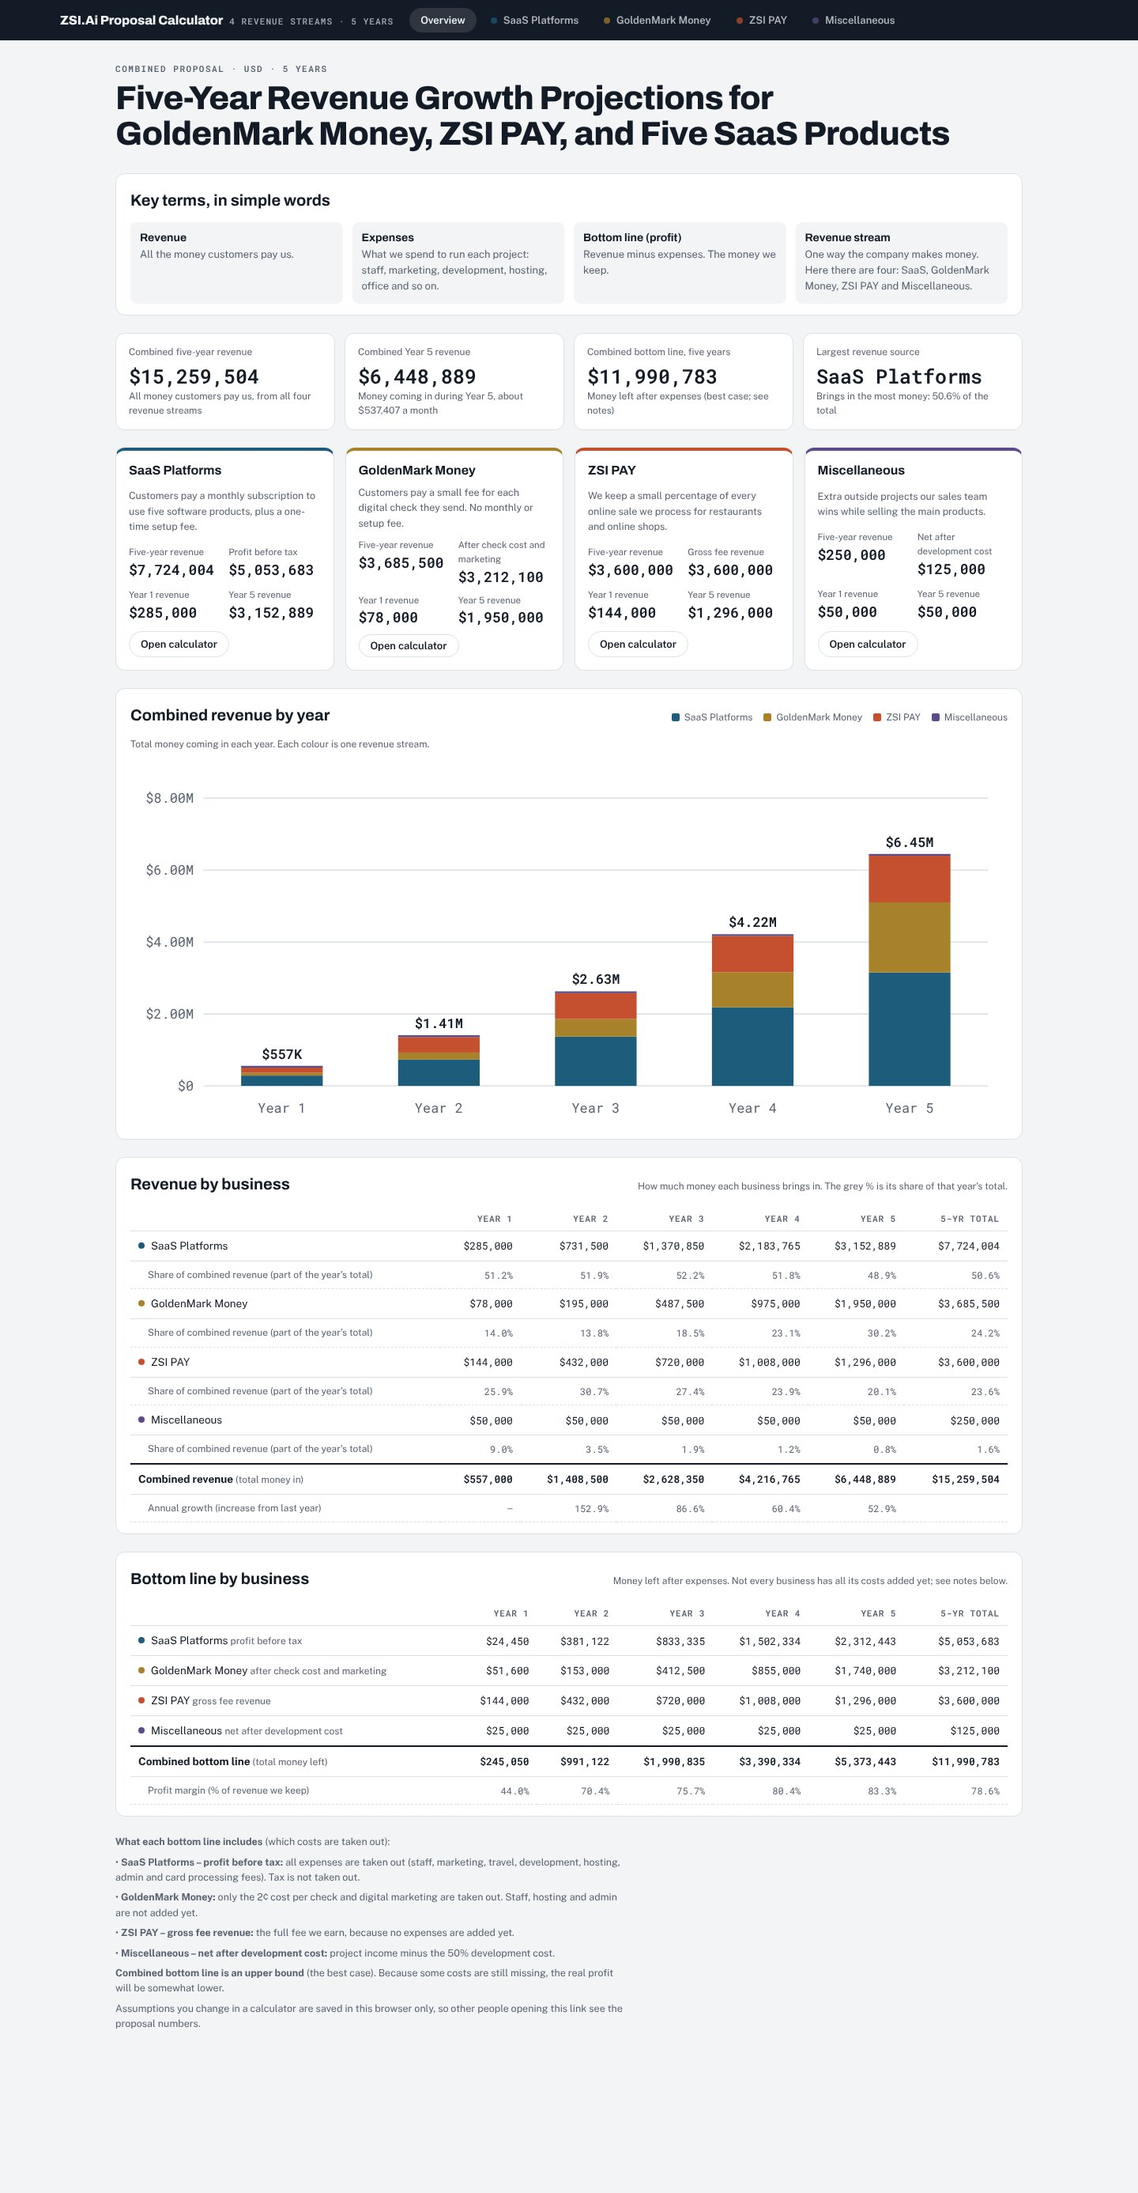
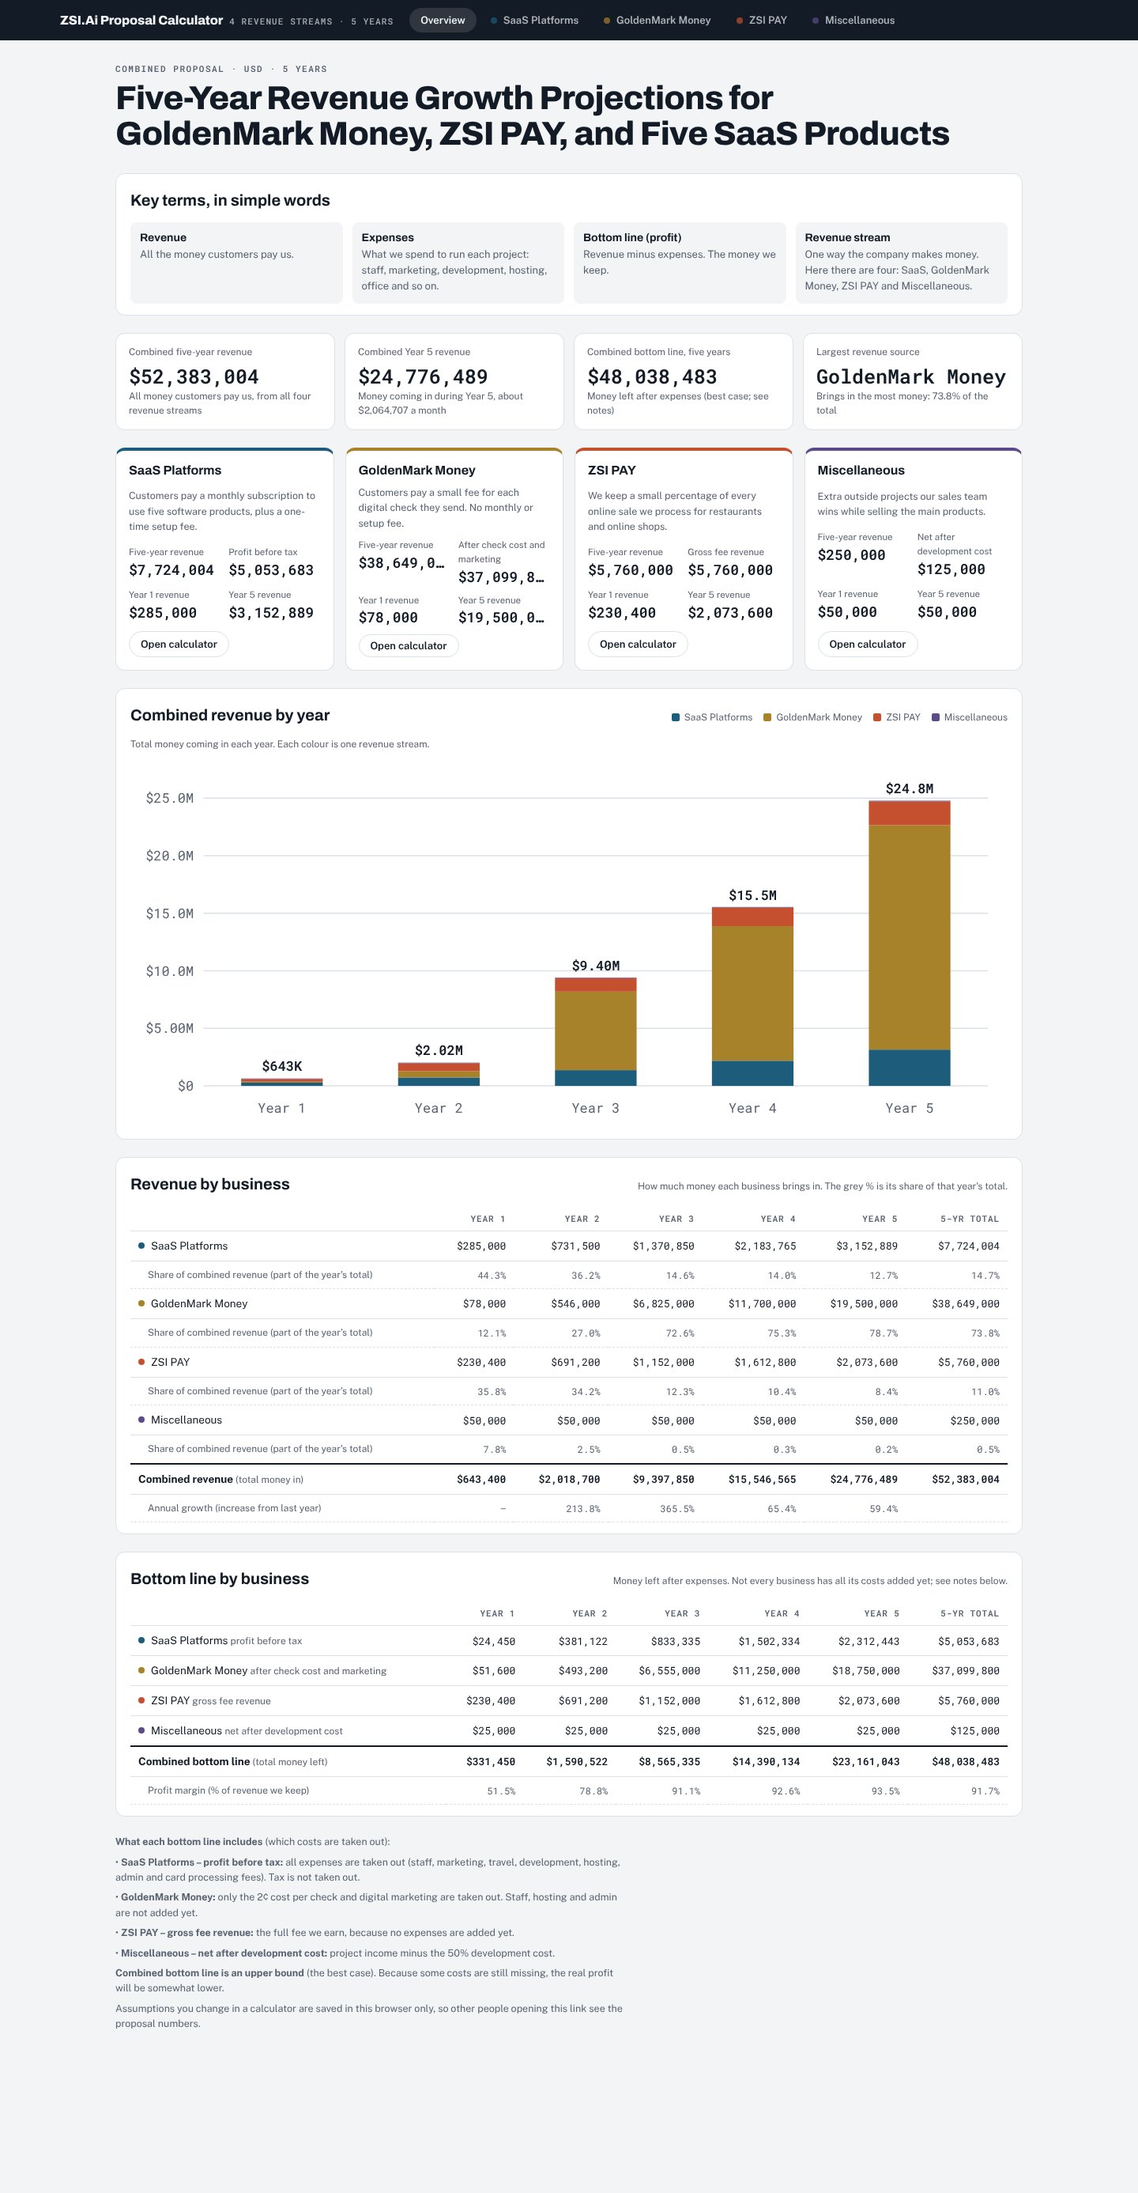
ZSI investor video: update to the revised calculator (GoldenMark Money customers 100-20,000; ZSI PAY fee 0.8%)
Claude-Session: https://claude.ai/code/session_01KPBsdzhy6yaFbGMrWeQjjn

diff --git a/channel/stories/z01/story.html b/channel/stories/z01/story.html
@@ -134,9 +134,9 @@ SCN.zsipay=(t,s,L)=>{
   if(p>0){ const x=lerp(470,1240,eio(p)), y=lerp(735,520,eio(p));
     el(`<div class="abs" style="left:${x}px;top:${y}px;padding:14px 26px;border-radius:12px;background:#2F7D4F;font-weight:900;font-size:40px;box-shadow:0 12px 30px #0008">$1,000</div>`);}
   if(sp>0){
-    el(`<div class="abs" style="left:1300px;top:${lerp(520,330,eio(sp))}px;padding:12px 24px;border-radius:12px;background:#2F7D4F;font-weight:900;font-size:38px;opacity:${sp}">$995 <span style="font-size:24px;font-weight:700">to the merchant</span></div>`);
-    el(`<div class="abs" style="left:${lerp(1300,1560,eio(sp))}px;top:${lerp(560,700,eio(sp))}px;width:110px;height:110px;border-radius:55px;background:radial-gradient(circle at 35% 30%,#FFF4B8,#E2BE62 50%,#B8860B);box-shadow:0 10px 30px #0008;display:flex;align-items:center;justify-content:center;font-weight:900;font-size:40px;color:#5a3a00;opacity:${sp}">$5</div>`);
-    el(`<div class="abs lbl" style="left:1500px;top:850px;width:300px;text-align:center;font-size:30px;opacity:${sp}">we keep <span class="big" style="font-size:44px">0.5%</span></div>`);}
+    el(`<div class="abs" style="left:1300px;top:${lerp(520,330,eio(sp))}px;padding:12px 24px;border-radius:12px;background:#2F7D4F;font-weight:900;font-size:38px;opacity:${sp}">$992 <span style="font-size:24px;font-weight:700">to the merchant</span></div>`);
+    el(`<div class="abs" style="left:${lerp(1300,1560,eio(sp))}px;top:${lerp(560,700,eio(sp))}px;width:110px;height:110px;border-radius:55px;background:radial-gradient(circle at 35% 30%,#FFF4B8,#E2BE62 50%,#B8860B);box-shadow:0 10px 30px #0008;display:flex;align-items:center;justify-content:center;font-weight:900;font-size:40px;color:#5a3a00;opacity:${sp}">$8</div>`);
+    el(`<div class="abs lbl" style="left:1500px;top:850px;width:300px;text-align:center;font-size:30px;opacity:${sp}">we keep <span class="big" style="font-size:44px">0.8%</span></div>`);}
 };
 SCN.terms=(t,s,L)=>{
   chap(t,'How it makes money');
@@ -188,10 +188,10 @@ SCN.gmm_model=(t,s,L)=>{
 SCN.gmm_num=(t,s,L)=>{
   chap(t,'Stream 2 · GoldenMark Money');
   el(browser({img:'calc_goldenmark',url:'proposal calculator · GoldenMark Money',x:90,y:150,w:1000,vh:740,sy:lerp(600,760,eio(seg(t,0,4))),op:fade(t,0)}));
-  el(`<div class="abs" style="left:1170px;top:180px;opacity:${fade(t,L[0])}"><div class="lbl" style="font-size:30px">Business customers</div><div class="big" style="font-size:72px">${Math.round(lerp(100,2000,eout(seg(t,L[0]+.5,L[0]+3)))).toLocaleString()}</div></div>`);
-  el(`<div class="abs" style="left:1170px;top:350px;opacity:${fade(t,L[0]+2.5)}"><div class="lbl" style="font-size:30px">Revenue per year</div><div class="big" style="font-size:66px">$78,000 → ${money(countUp(t,L[0]+3,1.5,1950000))}</div></div>`);
-  el(`<div class="abs" style="left:1170px;top:540px;opacity:${fade(t,L[1])}"><div class="lbl" style="font-size:30px">5-year revenue</div><div class="big" style="font-size:72px">${money(countUp(t,L[1],1.4,3685500))}</div></div>`);
-  el(`<div class="abs" style="left:1170px;top:720px;opacity:${fade(t,L[1]+2.4)}"><div class="lbl" style="font-size:30px">Left after check costs & marketing</div><div class="big" style="font-size:72px;color:#F5D98A">${money(countUp(t,L[1]+2.4,1.4,3212100))}</div></div>`);
+  el(`<div class="abs" style="left:1170px;top:180px;opacity:${fade(t,L[0])}"><div class="lbl" style="font-size:30px">Business customers</div><div class="big" style="font-size:72px">${Math.round(lerp(100,20000,eout(seg(t,L[0]+.5,L[0]+3)))).toLocaleString()}</div></div>`);
+  el(`<div class="abs" style="left:1170px;top:350px;opacity:${fade(t,L[0]+2.5)}"><div class="lbl" style="font-size:30px">Revenue per year</div><div class="big" style="font-size:66px">$78K → ${short(countUp(t,L[0]+3,1.5,19500000))}</div></div>`);
+  el(`<div class="abs" style="left:1170px;top:540px;opacity:${fade(t,L[1])}"><div class="lbl" style="font-size:30px">5-year revenue</div><div class="big" style="font-size:72px">${money(countUp(t,L[1],1.4,38649000))}</div></div>`);
+  el(`<div class="abs" style="left:1170px;top:720px;opacity:${fade(t,L[1]+2.4)}"><div class="lbl" style="font-size:30px">Left after check costs & marketing</div><div class="big" style="font-size:72px;color:#F5D98A">${money(countUp(t,L[1]+2.4,1.4,37099800))}</div></div>`);
 };
 SCN.pay_num=(t,s,L)=>{
   chap(t,'Stream 3 · ZSI PAY');
@@ -203,10 +203,10 @@ SCN.pay_num=(t,s,L)=>{
   el(`<div class="abs" style="left:130px;top:660px;opacity:${fade(t,L[1])}"><span class="big" style="font-size:80px">${Math.round(lerp(0,900,eout(seg(t,L[1],L[1]+1.5))))}</span><span class="lbl" style="font-size:34px"> merchants by Year 5</span></div>`);
   el(`<div class="abs" style="left:130px;top:800px;opacity:${fade(t,L[1]+2.5)}"><span class="big" style="font-size:72px;color:#F08A6A">${money(countUp(t,L[1]+2.5,1.6,720000000))}</span><span class="lbl" style="font-size:30px"> in sales processed (5 yrs)</span></div>`);
   // revenue bars
-  const R=[144000,432000,720000,1008000,1296000];
-  if(t>L[2]-.4){ R.forEach((v,i)=>{const q=eout(seg(t,L[2]+i*.35,L[2]+i*.35+.6)); const h=v/1296000*420;
+  const R=[230400,691200,1152000,1612800,2073600];
+  if(t>L[2]-.4){ R.forEach((v,i)=>{const q=eout(seg(t,L[2]+i*.35,L[2]+i*.35+.6)); const h=v/2073600*420;
       el(`<div class="abs" style="left:${1150+i*140}px;top:${760-h*q}px;width:100px;height:${h*q}px;border-radius:10px 10px 0 0;background:#C4502F"></div><div class="abs" style="left:${1130+i*140}px;top:${715-h*q}px;width:140px;text-align:center;font-weight:900;font-size:28px;opacity:${q}">${short(v)}</div><div class="abs lbl" style="left:${1130+i*140}px;top:775px;width:140px;text-align:center;font-size:24px">Year ${i+1}</div>`);});
-    el(`<div class="abs" style="left:1150px;top:850px;opacity:${fade(t,L[2]+2.2)}"><span class="lbl" style="font-size:30px">5-year fee revenue </span><span class="big" style="font-size:56px">${money(countUp(t,L[2]+2.2,1.3,3600000))}</span></div>`);}
+    el(`<div class="abs" style="left:1150px;top:850px;opacity:${fade(t,L[2]+2.2)}"><span class="lbl" style="font-size:30px">5-year fee revenue </span><span class="big" style="font-size:56px">${money(countUp(t,L[2]+2.2,1.3,5760000))}</span></div>`);}
 };
 SCN.misc=(t,s,L)=>{
   chap(t,'Stream 4 · Miscellaneous');
@@ -219,29 +219,29 @@ SCN.misc=(t,s,L)=>{
 };
 SCN.combined=(t,s,L)=>{
   chap(t,'All four together');
-  const Y=[[285000,78000,144000,50000],[731500,195000,432000,50000],[1370850,487500,720000,50000],[2183765,975000,1008000,50000],[3152889,1950000,1296000,50000]];
+  const Y=[[285000,78000,230400,50000],[731500,546000,691200,50000],[1370850,6825000,1152000,50000],[2183765,11700000,1612800,50000],[3152889,19500000,2073600,50000]];
   const C=['#1D5C7A','#A8822A','#C4502F','#5B4B8A'], NM=['SaaS Platforms','GoldenMark Money','ZSI PAY','Miscellaneous'];
-  const scale=600/6500000;
+  const scale=600/25500000;
   el(`<div class="abs title" style="left:150px;top:110px;font-size:56px;opacity:${fade(t,0)}">Combined revenue by year</div>`);
   el(`<div class="abs" style="left:150px;top:190px;display:flex;gap:30px;font-weight:700;font-size:26px;opacity:${fade(t,.3)}">${NM.map((n,i)=>`<span><i style="display:inline-block;width:22px;height:22px;border-radius:5px;margin-right:9px;vertical-align:-3px;background:${C[i]}"></i>${n}</span>`).join('')}</div>`);
   for(let y=0;y<5;y++){ const a=L[1]-.2+y*.9, g=eout(seg(t,a,a+.9)); const x=220+y*230;
     let h='';for(let q=3;q>=0;q--) h+=`<div style="height:${Y[y][q]*scale*g}px;background:${C[q]};${q==3?'border-radius:8px 8px 0 0':''}"></div>`;
     el(`<div class="abs" style="left:${x}px;bottom:200px;width:150px">${h}</div><div class="abs lbl" style="left:${x}px;bottom:150px;width:150px;text-align:center;font-size:28px">Year ${y+1}</div>`);
     const tot=Y[y].reduce((p,c)=>p+c,0); el(`<div class="abs" style="left:${x-35}px;bottom:${215+tot*scale*g}px;width:220px;text-align:center;font-weight:900;font-size:36px;opacity:${seg(t,a+.4,a+.8)}">${short(tot*g)}</div>`); }
-  el(`<div class="abs" style="left:1440px;top:420px;width:440px;opacity:${fade(t,L[1]+4.2)}"><div class="lbl" style="font-size:28px">Year 5, every month</div><div class="big" style="font-size:58px">≈ $537,000</div></div>`);
-  el(`<div class="abs" style="left:1440px;top:600px;width:440px;opacity:${fade(t,L[2])}"><div class="lbl" style="font-size:28px">Five-year revenue</div><div class="big" style="font-size:60px">${money(countUp(t,L[2],1.5,15259504))}</div></div>`);
+  el(`<div class="abs" style="left:1440px;top:420px;width:440px;opacity:${fade(t,L[1]+4.2)}"><div class="lbl" style="font-size:28px">Year 5, every month</div><div class="big" style="font-size:58px">≈ $2.06M</div></div>`);
+  el(`<div class="abs" style="left:1440px;top:600px;width:440px;opacity:${fade(t,L[2])}"><div class="lbl" style="font-size:28px">Five-year revenue</div><div class="big" style="font-size:60px">${money(countUp(t,L[2],1.5,52383004))}</div></div>`);
 };
 SCN.bottom=(t,s,L)=>{
   chap(t,'The bottom line');
-  const B=[245050,991122,1990835,3390334,5373443], M=[44.0,70.4,75.7,80.4,83.3];
+  const B=[331450,1590522,8565335,14390134,23161043], M=[51.5,78.8,91.1,92.6,93.5];
   el(`<div class="abs title" style="left:150px;top:110px;font-size:54px;opacity:${fade(t,0)}">Bottom line by year <span class="lbl" style="font-size:28px">(revenue minus expenses, best case)</span></div>`);
-  B.forEach((v,i)=>{const a=.4+i*.5, q=eout(seg(t,a,a+.7)); const h=v/5373443*470; const x=200+i*200;
+  B.forEach((v,i)=>{const a=.4+i*.5, q=eout(seg(t,a,a+.7)); const h=v/23161043*470; const x=200+i*200;
     el(`<div class="abs" style="left:${x}px;top:${830-h*q}px;width:130px;height:${h*q}px;border-radius:10px 10px 0 0;background:linear-gradient(#F5D98A,#A8822A)"></div><div class="abs" style="left:${x-25}px;top:${785-h*q}px;width:180px;text-align:center;font-weight:900;font-size:32px;opacity:${q}">${short(v)}</div><div class="abs lbl" style="left:${x}px;top:845px;width:130px;text-align:center;font-size:26px">Year ${i+1}</div>`);});
   // margin dial
-  if(t>L[1]-.2){ const k=eout(seg(t,L[1]+.3,L[1]+3)); const m=lerp(44,83.3,k); const ang=m/100*360;
+  if(t>L[1]-.2){ const k=eout(seg(t,L[1]+.3,L[1]+3)); const m=lerp(51.5,93.5,k); const ang=m/100*360;
     el(`<div class="abs" style="left:1330px;top:250px;width:380px;height:380px;border-radius:50%;opacity:${fade(t,L[1]-.2)};background:conic-gradient(#E2BE62 0deg ${ang}deg,#1B2C48 ${ang}deg 360deg)"></div><div class="abs" style="left:1375px;top:295px;width:290px;height:290px;border-radius:50%;background:#0B1628;opacity:${fade(t,L[1]-.2)}"></div>`);
-    el(`<div class="abs" style="left:1330px;top:370px;width:380px;text-align:center;opacity:${fade(t,L[1]-.2)}"><div class="big" style="font-size:90px">${Math.round(m)}%</div><div class="lbl" style="font-size:28px">profit margin</div></div>`);
-    el(`<div class="abs lbl" style="left:1330px;top:650px;width:380px;text-align:center;font-size:28px;opacity:${fade(t,L[1]+.5)}">Year 1: 44% → Year 5: 83%</div>`);}
+    el(`<div class="abs" style="left:1330px;top:370px;width:380px;text-align:center;opacity:${fade(t,L[1]-.2)}"><div class="big" style="font-size:90px">${m.toFixed(1)}%</div><div class="lbl" style="font-size:28px">profit margin</div></div>`);
+    el(`<div class="abs lbl" style="left:1330px;top:650px;width:380px;text-align:center;font-size:28px;opacity:${fade(t,L[1]+.5)}">Year 1: 51.5% → Year 5: 93.5%</div>`);}
   if(t>L[2]-.2){ const q=fade(t,L[2]-.2);
     el(`<div class="panel" style="left:1180px;top:720px;width:680px;height:250px;opacity:${q}"><div class="abs" style="left:28px;top:18px;font-weight:900;font-size:28px;color:#E2BE62">Best case · not audited profit</div>
       <div class="abs" style="left:28px;top:70px;font-weight:700;font-size:23px;line-height:1.55;color:#DDD3BC">SaaS: all costs included<br>GoldenMark Money: only check cost + marketing<br>ZSI PAY: no costs added yet</div></div>`);}
@@ -249,7 +249,7 @@ SCN.bottom=(t,s,L)=>{
 SCN.why=(t,s,L)=>{
   chap(t,'Why invest');
   el(`<div class="abs title" style="left:150px;top:110px;font-size:64px;opacity:${fade(t,0)}">Why invest in <span style="color:#E2BE62">ZSI.Ai</span></div>`);
-  const C=[['7 live products','4 ways to earn, no single point of failure'],['Recurring revenue','subscriptions and payment fees, every month'],['High margins','a $0.65 check costs us $0.02'],['Fast growth','$557K → $6.45M a year in 5 years'],['Early profit','SaaS profitable in Year 1'],['Transparent','open the live calculator and test it']];
+  const C=[['7 live products','4 ways to earn, no single point of failure'],['Recurring revenue','subscriptions and payment fees, every month'],['High margins','a $0.65 check costs us $0.02'],['Fast growth','$643K → $24.8M a year in 5 years'],['Early profit','SaaS profitable in Year 1'],['Transparent','open the live calculator and test it']];
   C.forEach(([h,b],i)=>{const a=L[Math.min(i+1,L.length-1)]-.1; const q=spring(t,a,1); const x=150+(i%3)*560, y=250+Math.floor(i/3)*330;
     el(`<div class="panel" style="left:${x}px;top:${y}px;width:520px;height:290px;transform:scale(${q});opacity:${clamp(q)}"><div class="abs" style="left:32px;top:28px;width:56px;height:56px;border-radius:50%;background:#E2BE62;color:#0B1628;display:flex;align-items:center;justify-content:center;font-weight:900;font-size:30px">${i+1}</div><div class="abs big" style="left:32px;top:104px;font-size:44px">${h}</div><div class="abs" style="left:32px;top:176px;width:460px;font-weight:700;font-size:28px;line-height:1.35">${b}</div></div>`);});
 };

diff --git a/channel/stories/z01_script.py b/channel/stories/z01_script.py
@@ -1,6 +1,6 @@
 """ZSI.Ai investor presentation (played in person to 10+ investors). Two presenters, like business partners:
 F| = female presenter, N| = male presenter. Plan: investor/zsi/SCRIPT.md + MASTER_PROMPT.md (Gold Desk style).
-Every number is the live calculator's default proposal value (captured Nov 24, 2026, investor/zsi/research/).
+Every number is the live calculator's default proposal value (re-captured Nov 25, 2026 after the owner's update: GoldenMark Money customers 100/700/7,000/12,000/20,000 and ZSI PAY fee 0.8%, investor/zsi/research/).
 Each product explanation stays under 20 seconds (owner rule). Owner decisions Nov 24: GoldenMark Money uses the
 calculator's $0.65 price; SaaS = businesses pay $75/month to use the five platforms; no raise amount or valuation."""
 
@@ -37,8 +37,8 @@ SCENES = [
         "N|GoldenMark Money lets any business print checks on its own printer, email eChecks, and pay a whole batch of vendors at once, right from the browser.",
     ]),
     dict(id='zsipay', chapter='ZSI PAY', lines=[
-        "F|And ZSI PAY. Restaurants and online shops process their online sales through ZSI PAY, and we keep half a percent of every sale.",
-        "N|That's five dollars on every thousand.",
+        "F|And ZSI PAY. Restaurants and online shops process their online sales through ZSI PAY, and we keep eight tenths of one percent of every sale.",
+        "N|That's eight dollars on every thousand.",
     ]),
     dict(id='terms', chapter='How it makes money', lines=[
         "N|Now, how it makes money. Three words first.",
@@ -58,13 +58,13 @@ SCENES = [
         "F|Our cost is two cents. So we keep sixty-three cents of every check.",
     ]),
     dict(id='gmm_num', chapter='Stream 2: GoldenMark Money', lines=[
-        "N|As customers grow from one hundred businesses to two thousand, revenue rises from seventy-eight thousand dollars to one point nine five million a year.",
-        "F|Over five years: three point seven million in revenue, and three point two million left after check costs and marketing.",
+        "N|As customers grow from one hundred businesses to twenty thousand, revenue rises from seventy-eight thousand dollars to nineteen and a half million a year.",
+        "F|Over five years: thirty-eight point six million in revenue, and thirty-seven point one million left after check costs and marketing.",
     ]),
     dict(id='pay_num', chapter='Stream 3: ZSI PAY', lines=[
         "F|Stream three: ZSI PAY. The plan adds sixty restaurants and one hundred twenty online shops every year.",
         "N|By Year 5 that's nine hundred merchants, and seven hundred twenty million dollars in sales processed over five years.",
-        "F|Our half a percent becomes one point three million dollars a year, and three point six million over five years.",
+        "F|Our eight tenths of a percent becomes about two point one million dollars a year, and five point seven six million over five years.",
     ]),
     dict(id='misc', chapter='Stream 4: Miscellaneous', lines=[
         "N|Stream four is a bonus. While selling our products, the sales team wins outside projects: about five a year, at ten thousand dollars each.",
@@ -72,12 +72,12 @@ SCENES = [
     ]),
     dict(id='combined', chapter='All four together', lines=[
         "F|Now put all four together.",
-        "N|Revenue grows from five hundred fifty-seven thousand dollars in Year 1 to six point four million in Year 5. That's about five hundred thirty-seven thousand dollars every month.",
-        "F|Fifteen point two six million dollars over five years.",
+        "N|Revenue grows from six hundred forty-three thousand dollars in Year 1 to twenty-four point eight million in Year 5. That's over two million dollars every month.",
+        "F|Fifty-two point four million dollars over five years.",
     ]),
     dict(id='bottom', chapter='The bottom line', lines=[
-        "N|The bottom line rises from about two hundred forty-five thousand dollars to five point three seven million a year.",
-        "F|And the profit margin, the share of revenue we keep, climbs from forty-four percent to eighty-three.",
+        "N|The bottom line rises from about three hundred thirty-one thousand dollars to twenty-three point two million a year.",
+        "F|And the profit margin, the share of revenue we keep, climbs from about fifty-one percent to ninety-three.",
         "N|To be clear, that's a best case. SaaS includes all its costs. GoldenMark Money counts only check costs and marketing so far. And ZSI PAY has no costs added yet.",
     ]),
     dict(id='why', chapter='Why invest', lines=[
@@ -85,7 +85,7 @@ SCENES = [
         "N|Seven real, working products and four ways to earn, so we never depend on just one.",
         "F|Revenue that comes back every month.",
         "N|High margins: a check that sells for sixty-five cents costs us two.",
-        "F|Fast growth: from five hundred fifty-seven thousand to six point four five million dollars a year.",
+        "F|Fast growth: from six hundred forty-three thousand to twenty-four point eight million dollars a year.",
         "N|Profit from Year 1 in SaaS.",
         "F|And full transparency.",
     ]),
